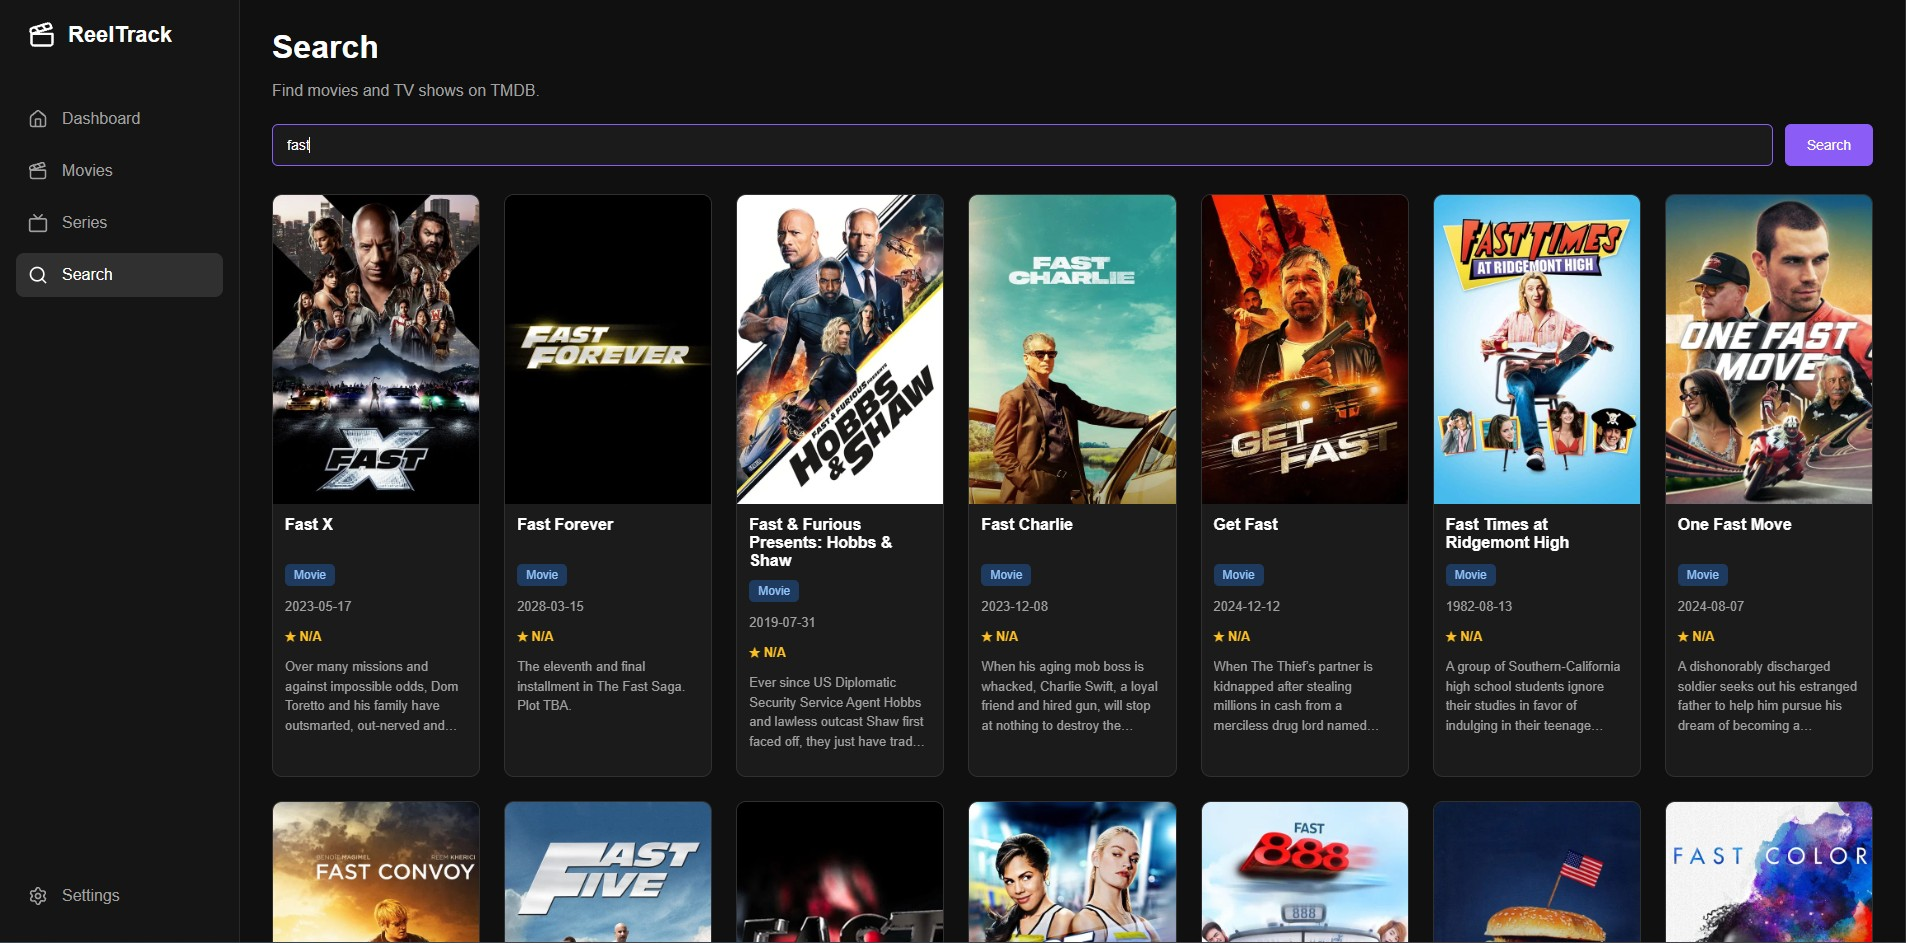
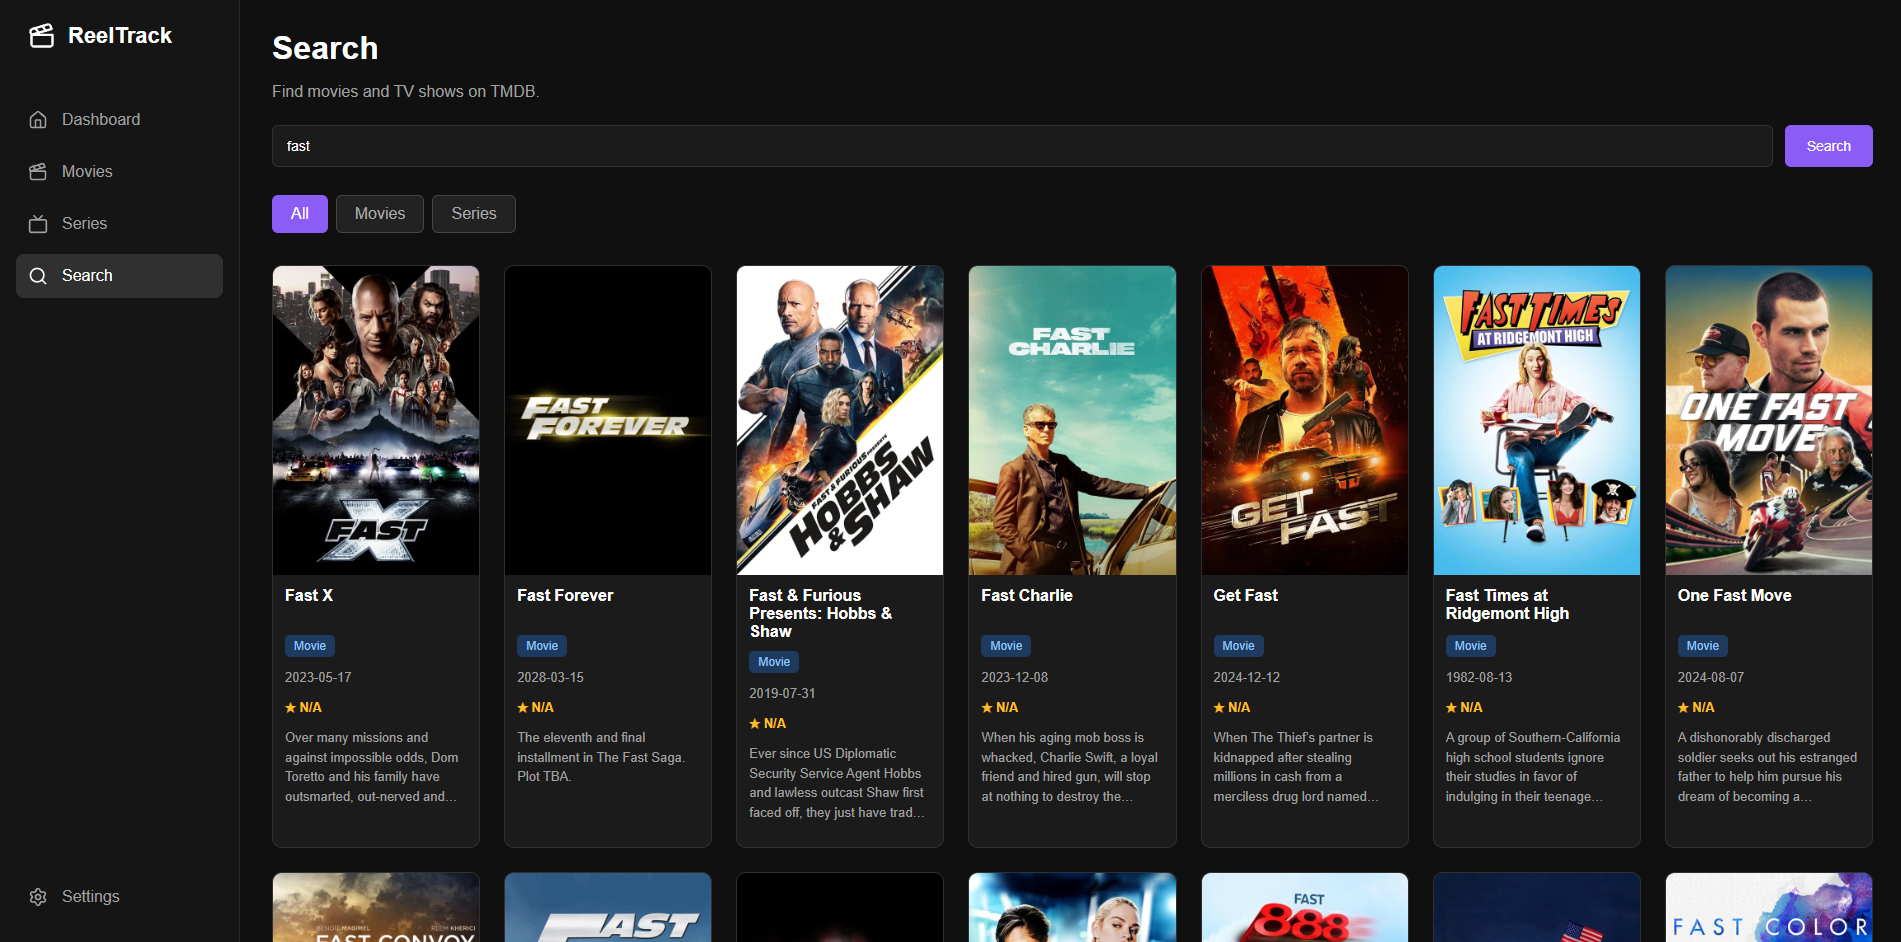
feat: implement media type selection and sorting options in search functionality

diff --git a/frontend/src/pages/Search.jsx b/frontend/src/pages/Search.jsx
@@ -12,6 +12,8 @@ function Search() {
     const [loading, setLoading] = useState(false);
     const [error, setError] = useState(null);
     const [hasSearched, setHasSearched] = useState(false);
+    const [mediaType, setMediaType] = useState("all");
+    const [sortBy, setSortBy] = useState("popularity");
 
     const navigate = useNavigate();
 
@@ -21,12 +23,13 @@ function Search() {
         }
     }, []);
 
-    async function handleSearch(event) {
-        event.preventDefault();
+    async function handleSearch(event, selectedType = mediaType) {
+        event?.preventDefault();
 
         if (!searchTerm.trim()) {
             return;
         }
+
         sessionStorage.setItem("reeltrackSearchTerm", searchTerm.trim());
 
         try {
@@ -34,14 +37,25 @@ function Search() {
             setError(null);
             setHasSearched(true);
 
-            const [movieResults, seriesResults] = await Promise.all([
-                searchMovies(searchTerm.trim()),
-                searchSeries(searchTerm.trim())
-            ]);
+            if (selectedType === "all") {
+                const [movieResults, seriesResults] = await Promise.all([
+                    searchMovies(searchTerm.trim()),
+                    searchSeries(searchTerm.trim())
+                ]);
 
+                setMovies(movieResults);
+                setSeries(seriesResults);
+            } else if (selectedType === "movie") {
+                const movieResults = await searchMovies(searchTerm.trim());
 
-            setMovies(movieResults);
-            setSeries(seriesResults);
+                setMovies(movieResults);
+                setSeries([]);
+            } else if (selectedType === "series") {
+                const seriesResults = await searchSeries(searchTerm.trim());
+
+                setMovies([]);
+                setSeries(seriesResults);
+            }
         } catch (error) {
             setError(error.message);
         } finally {
@@ -64,9 +78,37 @@ function Search() {
         }))
     ];
 
-    results.sort((a, b) =>
-        (b.voteAverage || 0) - (a.voteAverage || 0)
-    );
+    const sortedResults = [...results].sort((a, b) => {
+        const popularityA = a.popularity || 0;
+        const popularityB = b.popularity || 0;
+
+        const ratingA = a.vote_average ?? a.voteAverage ?? 0;
+        const ratingB = b.vote_average ?? b.voteAverage ?? 0;
+
+        const dateA = a.releaseDate || a.firstAirDate || "";
+        const dateB = b.releaseDate || b.firstAirDate || "";
+
+        if (sortBy === "popularity") {
+            return popularityB - popularityA;
+        }
+
+        if (sortBy === "rating") {
+            return ratingB - ratingA;
+        }
+
+        if (sortBy === "release-date") {
+            return dateB.localeCompare(dateA);
+        }
+
+        if (sortBy === "title") {
+            const titleA = a.title || a.name || "";
+            const titleB = b.title || b.name || "";
+
+            return titleA.localeCompare(titleB);
+        }
+
+        return 0;
+    });
 
     return (
         <div className="search-page">
@@ -88,6 +130,56 @@ function Search() {
                 </button>
             </form>
 
+            <div className="search-type-selector">
+                <button
+                    type="button"
+                    className={mediaType === "all" ? "active" : ""}
+                    onClick={() => {
+                        setMediaType("all");
+                        handleSearch(null, "all");
+                    }}
+                >
+                    All
+                </button>
+
+                <button
+                    type="button"
+                    className={mediaType === "movie" ? "active" : ""}
+                    onClick={() => {
+                        setMediaType("movie");
+                        handleSearch(null, "movie");
+                    }}
+                >
+                    Movies
+                </button>
+
+                <button
+                    type="button"
+                    className={mediaType === "series" ? "active" : ""}
+                    onClick={() => {
+                        setMediaType("series");
+                        handleSearch(null, "series");
+                    }}
+                >
+                    Series
+                </button>
+            </div>
+
+            <div className="search-sort">
+                <label htmlFor="sortBy">Sort by:</label>
+
+                <select
+                    id="sortBy"
+                    value={sortBy}
+                    onChange={event => setSortBy(event.target.value)}
+                >
+                    <option value="popularity">Popularity</option>
+                    <option value="rating">Rating</option>
+                    <option value="release-date">Release Date</option>
+                    <option value="title">Title (A-Z)</option>
+                </select>
+            </div>
+
             {loading && <p>Searching...</p>}
 
             {error && <p className="search-error">Error: {error}</p>}
@@ -97,7 +189,7 @@ function Search() {
                     <p>No results found.</p>
                 ) : (
                     <div className="search-results">
-                        {results.map(item => (
+                        {sortedResults.map(item => (
                             <div
                                 className="search-result-card"
                                 key={`${item.mediaType}-${item.id}`}

diff --git a/frontend/src/pages/Search.css b/frontend/src/pages/Search.css
@@ -142,3 +142,52 @@
         width: 100%;
     }
 }
+
+.search-type-selector {
+    display: flex;
+    gap: 8px;
+    margin-top: 16px;
+    margin-bottom: 32px;
+}
+
+.search-type-selector button {
+    padding: 9px 18px;
+    border: 1px solid #444;
+    border-radius: 6px;
+    background-color: #222;
+    color: #aaa;
+    cursor: pointer;
+}
+
+.search-type-selector button.active {
+    background-color: #8b5cf6;
+    color: white;
+    border-color: #8b5cf6;
+}
+
+.search-sort {
+    display: flex;
+    align-items: center;
+    gap: 12px;
+    margin-bottom: 24px;
+}
+
+.search-sort label {
+    color: #aaa;
+    font-size: 14px;
+}
+
+.search-sort select {
+    padding: 9px 12px;
+    border: 1px solid #444;
+    border-radius: 6px;
+    background-color: #222;
+    color: white;
+    font-size: 14px;
+    cursor: pointer;
+}
+
+.search-sort select:focus {
+    outline: none;
+    border-color: #8b5cf6;
+}
